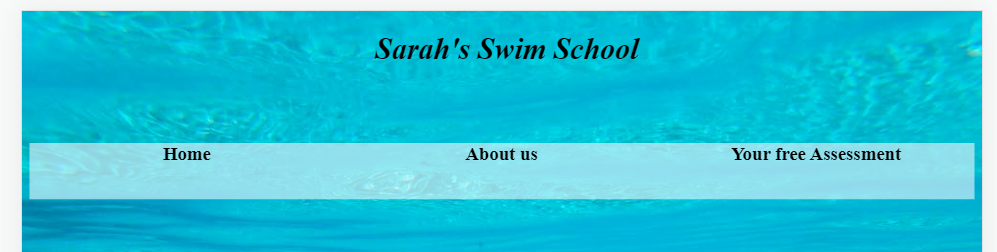
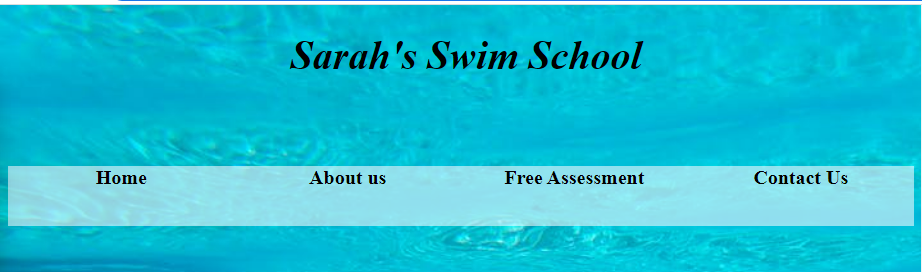
Added a extra section to Nav bar and updated Media queries

diff --git a/assets/css/style.css b/assets/css/style.css
@@ -39,7 +39,7 @@ body {
 
 .navbar a {
     float: left;
-    width: 33.3%;
+    width: 25%;
     height: 60px;
     font-size: 20px;
     text-align: center;
@@ -48,7 +48,7 @@ body {
 }
 
 nav>div {
-    width: 33.3%;
+    width: 25%;
     display: inline;
 
 }
@@ -59,6 +59,12 @@ a:hover,
 a:active {
     text-decoration: none;
     color: inherit;
+}
+
+nav div:hover {
+    background-color: white;
+    transition: 0.5s;
+
 }
 
 main {
@@ -133,13 +139,13 @@ ul {
 }
 
 @media screen and (min-width: 951px) and (max-width: 1200px) {
-    body{
+    body {
         font-size: 25px;
     }
 }
 
-@media screen and  (min-width: 481px) and (max-width: 950px) {
-    body{
+@media screen and (min-width: 481px) and (max-width: 950px) {
+    body {
         font-size: 20px;
     }
 }
@@ -147,6 +153,6 @@ ul {
 
 @media screen and (max-width: 440px) {
     body {
-        font-size: 14px;
+        font-size: 12px;
     }
 }

diff --git a/index.html b/index.html
@@ -38,6 +38,10 @@
                 <a href="sign-up-form.html">Free Assessment</a>
             </div>
 
+            <div class="tab">
+                <a href="#contact">Contact Us</a>
+            </div>
+
         </nav>
 
     </header>
@@ -122,7 +126,7 @@
     </main>
 
     <footer>
-        <h2 class="contact">Contact Us</h2>
+        <h2 class="contact" name="contact">Contact Us</h2>
         <div><strong>Phone number:</strong> (021) 4500500</div>
         <div><strong>Email address:</strong> sarahswim@gmail.com</div>
         <div><strong>Address:</strong> Marina Swimming pool, Marina, Cork</div>
